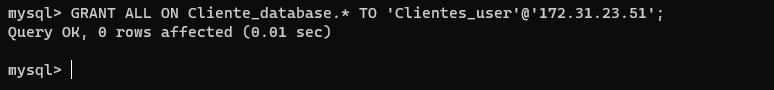
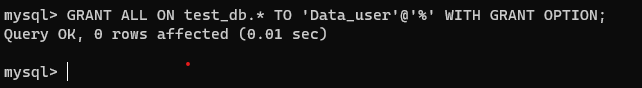
done with documentation on client server

diff --git a/6-client-server/README.md b/6-client-server/README.md
@@ -35,13 +35,20 @@ Connect to the `mysql-client`
 
 ![it should look like this](./images/cl.png)
 
-And Install MySQL software with the command below:
++ And Install MySQL software with the command below:
 
 `sudo apt install mysql-server`
+
+**enable mysql service with `sudo systemctl enable mysql`**
+
+![it should look like this](./images/en.png)
 
 + install Mysql for the client server with `sudo apt install mysql-client`
 
 ![it should look like this](./images/lqs.png)
+
+
+**enable mysql service with `sudo systemctl enable mysql`**
 
 **4.** By default both EC2 virtual servers are located in the same local virtual network. for to be able tocommunicate with each other using the local **IP ADRRESS** 
 
@@ -52,9 +59,17 @@ Change the inbound rule to TCP to port 3306 and connect to Clients **Private Ip 
 
 ![it should look like this](./images/da.png)
 
-**5.** To connect Client to Server We need to configure MySQL-Server to allow connection from remote host with the command below.
+**5.** To connect Client to Server We  need to first of all run the mysql security script `sudo mysql_secure-installation` and configure MySQL-Server to allow connection from remote host with the command below on server console.
 
-` sudo vi /etc/mysql/mysql.conf.d/mysqld.cnf ` and change the value of nind-address to `0.0.0.0`
+` sudo vi /etc/mysql/mysql.conf.d/mysqld.cnf ` and change the value of nind-address to `0.0.0.0` to enable connection from any ip adress.
+
+![it should look like this](./images/root.png)
+
+then restart mysql with `sudo systemctl restart mysql`
+
+![it should look like this](./images/res.png)
+
+## **AND**
 
 ![it should look like this](./images/conf.png)
 
@@ -70,19 +85,35 @@ log in with the command belwo:
 
 ![it should look like this](./images/log.png)
 
-paste this `DATAS USER 'Datas_user'@'private-Ip' IDENTIFIED BY 'PassWord.2';
+we will create user with  `CREATE USER 'Data_user'@'%' IDENTIFIED WITH mysql_native_password BY 'PassWord.2';
 ` in mysql console and run.
 
 
 ![it should look like this](./images/jh.png)
 
+next we will create data base with `CREATE DATABASE test_db;`.
+
+![it should look like this](./images/test.png)
+
 then grant permision to `Data-user` with the below command.
 
-`GRANT ALL ON Datas_database.* TO 'Clientes_user'@'private-Ip';
-FLUSH PRIVILEGES;`
-
+`GRANT ALL ON test_db.* TO 'Data_user'@'%' WITH GRANT OPTION;`
 
 ![it should look like this](./images/cli.png)
 
-**7.** Then From the client server run `mysql -u Datas_user -p -h <private-ip-address> `using the private Ip of the *Server
+## **AND**
+`FLUSH PRIVILEGES;`
 
+![it should look like this](./images/flush.png)
+
+**7.** Then From the client server run `mysql -u Data_user -h ,private ip address> -p`.
+
+![it should look like this](./images/connected.png)
+
+**8.** we will check if we have successfully connected to the server with command below.
+
+`show databases;`
+
+![it should look like this in client](./images/show.png)
+
+![it should look like this on the server](./images/show.png)
